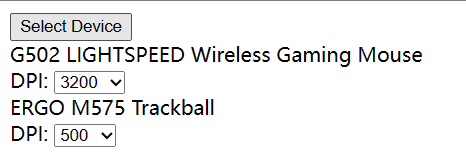
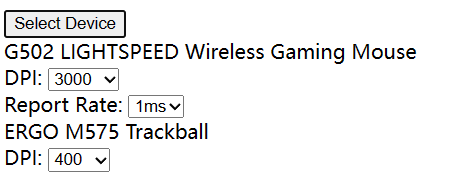
feat: support mouse report rate

Changed region(s): [[0.0, 0.0, 1.0, 0.9317]]

diff --git a/apps/demo/src/index.ts b/apps/demo/src/index.ts
@@ -1,4 +1,4 @@
-import { AdjustableDpi, Hidpp, Receiver, requestDevice, TypeAndName } from "@yume-chan/hidpp";
+import { AdjustableDpi, Hidpp, Receiver, ReportRate, requestDevice, TypeAndName } from "@yume-chan/hidpp";
 
 const settings = document.getElementById('settings') as HTMLDivElement;
 
@@ -28,11 +28,6 @@ document.getElementById('select-button')!.onclick = async () => {
 
   for (const device of devices) {
     console.log(device);
-    const dpi = new AdjustableDpi(device);
-    const dpiList = await dpi.getDpiList();
-    console.log(dpiList);
-    const currentDpi = await dpi.getDpi();
-    console.log(currentDpi);
 
     const name = document.createElement('div');
     // const friendlyName = new FriendlyName(device);
@@ -41,23 +36,58 @@ document.getElementById('select-button')!.onclick = async () => {
     name.textContent = await typeAndName.getDeviceName();
     settings.appendChild(name);
 
-    const div = document.createElement('div');
-    div.textContent = `DPI: `;
+    try {
+      const dpi = new AdjustableDpi(device);
+      const dpiList = await dpi.getDpiList();
+      console.log(dpiList);
+      const currentDpi = await dpi.getDpi();
+      console.log(currentDpi);
 
-    const select = document.createElement('select');
-    for (const value of dpiList) {
-      const option = document.createElement('option');
-      option.value = value.toString();
-      option.innerText = value.toString();
-      select.appendChild(option);
+      const div = document.createElement('div');
+      div.textContent = `DPI: `;
+
+      const select = document.createElement('select');
+      for (const value of dpiList) {
+        const option = document.createElement('option');
+        option.value = value.toString();
+        option.innerText = value.toString();
+        select.appendChild(option);
+      }
+      select.value = currentDpi.toString();
+      select.onchange = async () => {
+        console.log(select.value);
+        await dpi.setDpi(parseInt(select.value, 10));
+      };
+
+      div.appendChild(select);
+      settings.appendChild(div);
+    } catch { }
+
+    try {
+      const reportRate = new ReportRate(device);
+      const reportRateList = await reportRate.getReportRateList();
+      const currentReportRate = await reportRate.getReportRate();
+
+      const div = document.createElement('div');
+      div.textContent = 'Report Rate: ';
+
+      const select = document.createElement('select');
+      for (const value of reportRateList) {
+        const option = document.createElement('option');
+        option.value = value.toString();
+        option.innerText = `${value}ms`;
+        select.appendChild(option);
+      }
+      select.value = currentReportRate.toString();
+      select.onchange = async () => {
+        console.log(select.value);
+        await reportRate.setReportRate(parseInt(select.value, 10));
+      };
+
+      div.appendChild(select);
+      settings.appendChild(div);
+    } catch (e) {
+      console.error(e);
     }
-    select.value = currentDpi.toString();
-    select.onchange = async () => {
-      console.log(select.value);
-      await dpi.setDpi(parseInt(select.value, 10));
-    };
-
-    div.appendChild(select);
-    settings.appendChild(div);
   }
 };

diff --git a/libraries/hidpp/src/report-rate.ts b/libraries/hidpp/src/report-rate.ts
@@ -1,0 +1,48 @@
+import { Hidpp } from "./hidpp";
+
+export class ReportRate {
+  hidpp: Hidpp;
+
+  constructor(hidpp: Hidpp) {
+    this.hidpp = hidpp;
+  }
+
+  async getReportRateList(): Promise<number[]> {
+    const featureIndex = await this.hidpp.getFeatureIndex(0x8060);
+    const response = await this.hidpp.request(
+      0x11,
+      featureIndex,
+      0x0
+    );
+    const view = new Uint8Array(response);
+    const byte = view[0];
+    const result: number[] = [];
+    for (let i = 0; i < 8; i += 1) {
+      if (byte & (1 << i)) {
+        result.push(i + 1);
+      }
+    }
+    return result;
+  }
+
+  async getReportRate(): Promise<number> {
+    const featureIndex = await this.hidpp.getFeatureIndex(0x8060);
+    const response = await this.hidpp.request(
+      0x11,
+      featureIndex,
+      0x1
+    );
+    const view = new Uint8Array(response);
+    return view[0];
+  }
+
+  async setReportRate(value: number): Promise<void> {
+    const featureIndex = await this.hidpp.getFeatureIndex(0x8060);
+    await this.hidpp.request(
+      0x11,
+      featureIndex,
+      0x2,
+      new Uint8Array([value])
+    );
+  }
+}

diff --git a/libraries/hidpp/src/type-and-name.ts b/libraries/hidpp/src/type-and-name.ts
@@ -20,7 +20,6 @@ export class TypeAndName {
     return view[0];
   }
 
-
   async getDeviceName(): Promise<string> {
     const featureIndex = await this.hidpp.getFeatureIndex(0x0005);
     const nameLength = await this.getDeviceNameLength();

diff --git a/libraries/hidpp/src/index.ts b/libraries/hidpp/src/index.ts
@@ -2,4 +2,5 @@ export * from './adjustable-dpi';
 export * from './friendly-name';
 export * from './hidpp';
 export * from './receiver';
+export * from './report-rate';
 export * from './type-and-name';

diff --git a/README.md b/README.md
@@ -24,8 +24,8 @@ Current state:
 ### Mouse
 
 - [x] DPI (no multiple DPI)
+- [x] Report rate
 - [ ] Button remapping
-- [ ] Report rate
 
 ### Keyboard
 
